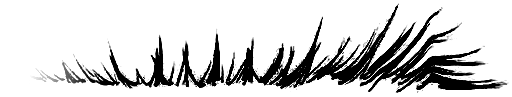
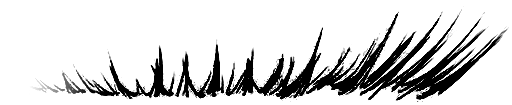
fix(ar): 글램 2.0 v11 — 아래 꼬리 뿌리·가닥 혼동 해소(승인 초록선 42° 연장)
- 사용자 진단: 꼬리에서 가닥이 밴드와 평행 층 구조 → 뿌리선이 몸통 관통(혼동)
- 잉크 기반 추정 2회 실패(분위수·윗면 실루엣) 후 확정: 밴드 신뢰 구간까지 펜 추종
  + 펜 하강 방향(42°) 직선 연장 — 게이트에서 사용자 승인
- 검증 커버 재해석: 기존 0.60~0.76은 혼동이 부풀린 값, 성긴 도안 하한 0.40(도안 소유)
- 언롤은 기각·shift 복귀, LowerTexRootV 0.0857 갱신
- v11: 아래 꼬리 수평 뻗침 제거, 부챗살 흐름 일치

Changed region(s): [[0.0625, 0.0619, 1.0, 0.9588]]

diff --git a/tools/glam2-lash/lash_extract.py b/tools/glam2-lash/lash_extract.py
@@ -33,7 +33,9 @@ SOURCES = {
         ann_dx=25),  # x0 590→565 잘림 방지(검증기 적발). 주석은 옛 박스 기준 → +25px 이동
     "lower": dict(
         src=REFS / "속눈썹 샘플/1a9bec9d78817015ce809bdc9b3d63a6.jpg",
-        box=(5, 380, 1194, 1040), flip=True, gap_frac=0.40),
+        box=(5, 380, 1194, 1040), flip=True, gap_frac=0.40,
+        tail_refit=0.70,   # 꼬리(바깥 30%): 뿌리선을 승인 초록선(42° 직선 연장)으로 교정
+        min_cover=0.40),   # 성긴 스파이크 도안 — 뿌리줄 간격이 넓어 커버 하한 완화
 }
 SUPER = 4          # 초해상 배수(안티앨리어스 보존)
 ALPHA_FLOOR = 0.04
@@ -130,6 +132,82 @@ def load_user_rootline(name, a, curve, ann_dx=0):
     return np.interp(np.arange(a.shape[1]), xs * SUPER + ann_dx * SUPER, ys * SUPER)
 
 
+def tail_band_refit(a, root_y, start_frac):
+    """아래 도안 꼬리 교정 v2 — 밴드 신뢰 구간의 진행 방향으로 직선 연장.
+
+    꼬리 끝쪽엔 밴드 자체가 없다(마지막 부착 이후는 자유 가닥). 잉크 기반 추정은
+    2회 모두 실패 — 아래-분위수는 가닥 몸통 관통, 최상단 잉크(윗면)는 위층 가닥
+    실루엣 오인(사용자 판정 0723 ×2). 그래서 잉크를 보지 않고, 신뢰 구간(start까지
+    사용자 펜)의 기울기를 그대로 직선 연장한다 — 렌더러 꼬리 접선 탈출과 동일 원리.
+    그 오른쪽 가닥은 전부 '뿌리선 아래 내용'이 되어 리본이 눈꼬리 밖으로 눕혀 그린다.
+    """
+    h, w = a.shape
+    x0 = int(w * start_frac)
+    # 기울기 = 사용자 펜의 하강 구간(x0~펜 끝) 방향(42°, 사용자 승인 0723 '초록선').
+    # 완만 구간(65~70%) 기울기(18°)는 부착 대각선보다 얕아 기각. 펜 끝은 값이
+    # 평평해지는 지점(수평 연장 시작)으로 검출.
+    d = np.gradient(root_y)
+    flat = np.where(np.abs(d[x0:]) < 0.01)[0]
+    x_end = x0 + flat[0] if len(flat) else int(w * 0.85)
+    slope = (root_y[x_end - 5] - root_y[x0]) / max(x_end - 5 - x0, 1)
+    xs = np.arange(w)
+    out = root_y.copy()
+    out[x0:] = np.clip(root_y[x0] + slope * (xs[x0:] - x0), 0, h - 1)
+    print(f"  꼬리 재피팅(승인 초록선): x≥{start_frac:.0%} 직선 연장 {np.degrees(np.arctan(slope)):.0f}°")
+    return out
+
+
+def unroll(a, root_y):
+    """곡선 언롤 — 뿌리 곡선을 따라 '굴려서' 편다(수직 시프트의 승격판).
+
+    각 출력 열은 뿌리 곡선 위의 호길이 등간격 점에서 곡선의 법선 방향으로 샘플링.
+    보존되는 것 = 가닥의 밴드 대비 상대 각도(장착 시 눈 곡선이 되돌려 회전 →
+    꼬리 가닥도 눈 흐름을 타고 자연스럽게 돎). 수직 시프트의 절대각 보존은
+    "휜 밴드에 눕던 꼬리 가닥"을 수평 뻗침으로 만들었음(사용자 판정 0723 v10).
+    반환: (결과, 뿌리줄 y 인덱스).
+    """
+    h, w = a.shape
+    # 접선 안정화 — 뿌리선을 넓게 스무딩해 미세 요철이 회전 지터로 증폭되는 것 방지
+    k = 121
+    ry = np.convolve(np.pad(root_y, k // 2, mode="edge"), np.ones(k) / k, mode="valid")[:w]
+    dy = np.gradient(ry)
+    ds = np.sqrt(1.0 + dy * dy)
+    s = np.concatenate([[0.0], np.cumsum(ds)])[:w]  # 각 x의 호길이
+    W = int(round(s[-1]))
+    sj = np.linspace(0.0, s[-1], W)
+    X = np.interp(sj, s, np.arange(w, dtype=np.float64))
+    Y = np.interp(X, np.arange(w), ry)
+    d_ = np.interp(X, np.arange(w), dy)
+    tx = 1.0 / np.sqrt(1.0 + d_ * d_)
+    ty = d_ * tx
+    nx, ny = -ty, tx
+    flip = ny > 0                     # '위(y 감소)' 방향으로 부호 정렬
+    nx = np.where(flip, -nx, nx)
+    ny = np.where(flip, -ny, ny)
+    kup = int(np.max(ry)) + 2         # 뿌리 위(털 방향) 샘플 범위
+    kdn = int(h - np.min(ry)) + 2     # 뿌리 아래(처지는 결) 범위
+    ks = np.arange(-kdn, kup + 1)
+    px = X[None, :] + nx[None, :] * ks[:, None]
+    py = Y[None, :] + ny[None, :] * ks[:, None]
+    x0 = np.floor(px).astype(int)
+    y0 = np.floor(py).astype(int)
+    fx = (px - x0).astype(np.float32)
+    fy = (py - y0).astype(np.float32)
+
+    def g(yy, xx):
+        valid = (xx >= 0) & (xx < w) & (yy >= 0) & (yy < h)
+        o = np.zeros(px.shape, dtype=np.float32)
+        o[valid] = a[yy[valid], xx[valid]]
+        return o
+
+    v = (g(y0, x0) * (1 - fx) * (1 - fy) + g(y0, x0 + 1) * fx * (1 - fy)
+         + g(y0 + 1, x0) * (1 - fx) * fy + g(y0 + 1, x0 + 1) * fx * fy)
+    out = v[::-1, :]                  # 행 0 = 최상단, 뿌리줄 = kup행
+    ang = np.degrees(np.arctan(np.abs(dy)))
+    print(f"  언롤: 폭 {w}→{W}(호길이), 밴드 기울기 최대 {ang.max():.0f}° 중앙값 {np.median(ang):.0f}°")
+    return out, kup
+
+
 def straighten(a, root_y):
     """뿌리 펴기 — 열별 수직 시프트, 소수점+선형 보간(정수 반올림 계단·지그재그 제거).
 
@@ -194,10 +272,16 @@ def validate(name, cfg, a, r):
     fails = []
     span = a.max(axis=0) > 0.2                       # 도안이 실제 차지하는 가로 구간
     lo = int(w * cfg["gap_frac"])                    # 의도된 앞쪽 공백은 제외
+    hi = int(w * cfg.get("tail_refit", 1.0))         # 꼬리 연장 구간(밴드 없음)도 제외
     root_row = a[max(0, r - 1): r + 2, :].max(axis=0) > 0.3
-    cover = root_row[lo:][span[lo:]].mean() if span[lo:].any() else 0.0
-    if cover < 0.55:
-        fails.append(f"뿌리 정렬 부족: 아랫줄 잉크 커버 {cover:.2f} < 0.55 (펴기 실패?)")
+    sel = span[lo:hi]
+    cover = root_row[lo:hi][sel].mean() if sel.any() else 0.0
+    # 기준은 도안 소유 — 성긴 스파이크 도안(lower)은 뿌리줄에 간격이 많아 커버가
+    # 원래 낮다. 이전 0.60~0.76은 꼬리 가닥 몸통이 뿌리줄을 가로지르며 부풀린 값
+    # (뿌리·가닥 혼동의 부산물)이었음이 0723 교정에서 드러남.
+    min_cover = cfg.get("min_cover", 0.55)
+    if cover < min_cover:
+        fails.append(f"뿌리 정렬 부족: 아랫줄 잉크 커버 {cover:.2f} < {min_cover} (펴기 실패?)")
     bot = a[int(h * 0.7):, :].mean()
     top = a[: int(h * 0.3), :].mean()
     if bot <= top:
@@ -221,6 +305,9 @@ def main():
         if mode == "apply":
             user = load_user_rootline(name, a, curve, cfg.get("ann_dx", 0))
             root_y = user if user is not None else np.polyval(curve, np.arange(a.shape[1]))
+            if cfg.get("tail_refit"):
+                root_y = tail_band_refit(a, root_y, cfg["tail_refit"])
+            # 언롤은 기각(사용자 0723): 중앙까지 재곡선화 위험 대비 이득 없음 → shift 유지
             flat, root_row = straighten(a, root_y)
             finalize(name, cfg, flat, root_row)
         else:

diff --git a/apps/unity/MakeupAR/Assets/Scripts/MediaPipeGraft/ARwithFable/Face/LashRenderer.cs b/apps/unity/MakeupAR/Assets/Scripts/MediaPipeGraft/ARwithFable/Face/LashRenderer.cs
@@ -126,7 +126,7 @@ namespace ARMakeup.Face
         // 리본을 눈 라인 밖으로 len×rootV만큼 연장해 그 줄이 정확히 눈 라인에 오게 한다.
         // 재추출 시 사이드카 값으로 갱신할 것(tools/glam2-lash/out/lash_glam_*.json).
         const float UpperTexRootV = 0.2081f;
-        const float LowerTexRootV = 0.1237f;
+        const float LowerTexRootV = 0.0857f; // 0723 꼬리 뿌리선 교정(승인 초록선 42°) 재산출값
         Mesh _texMesh;
         MeshRenderer _texRenderer;
         Material _texMaterial;
